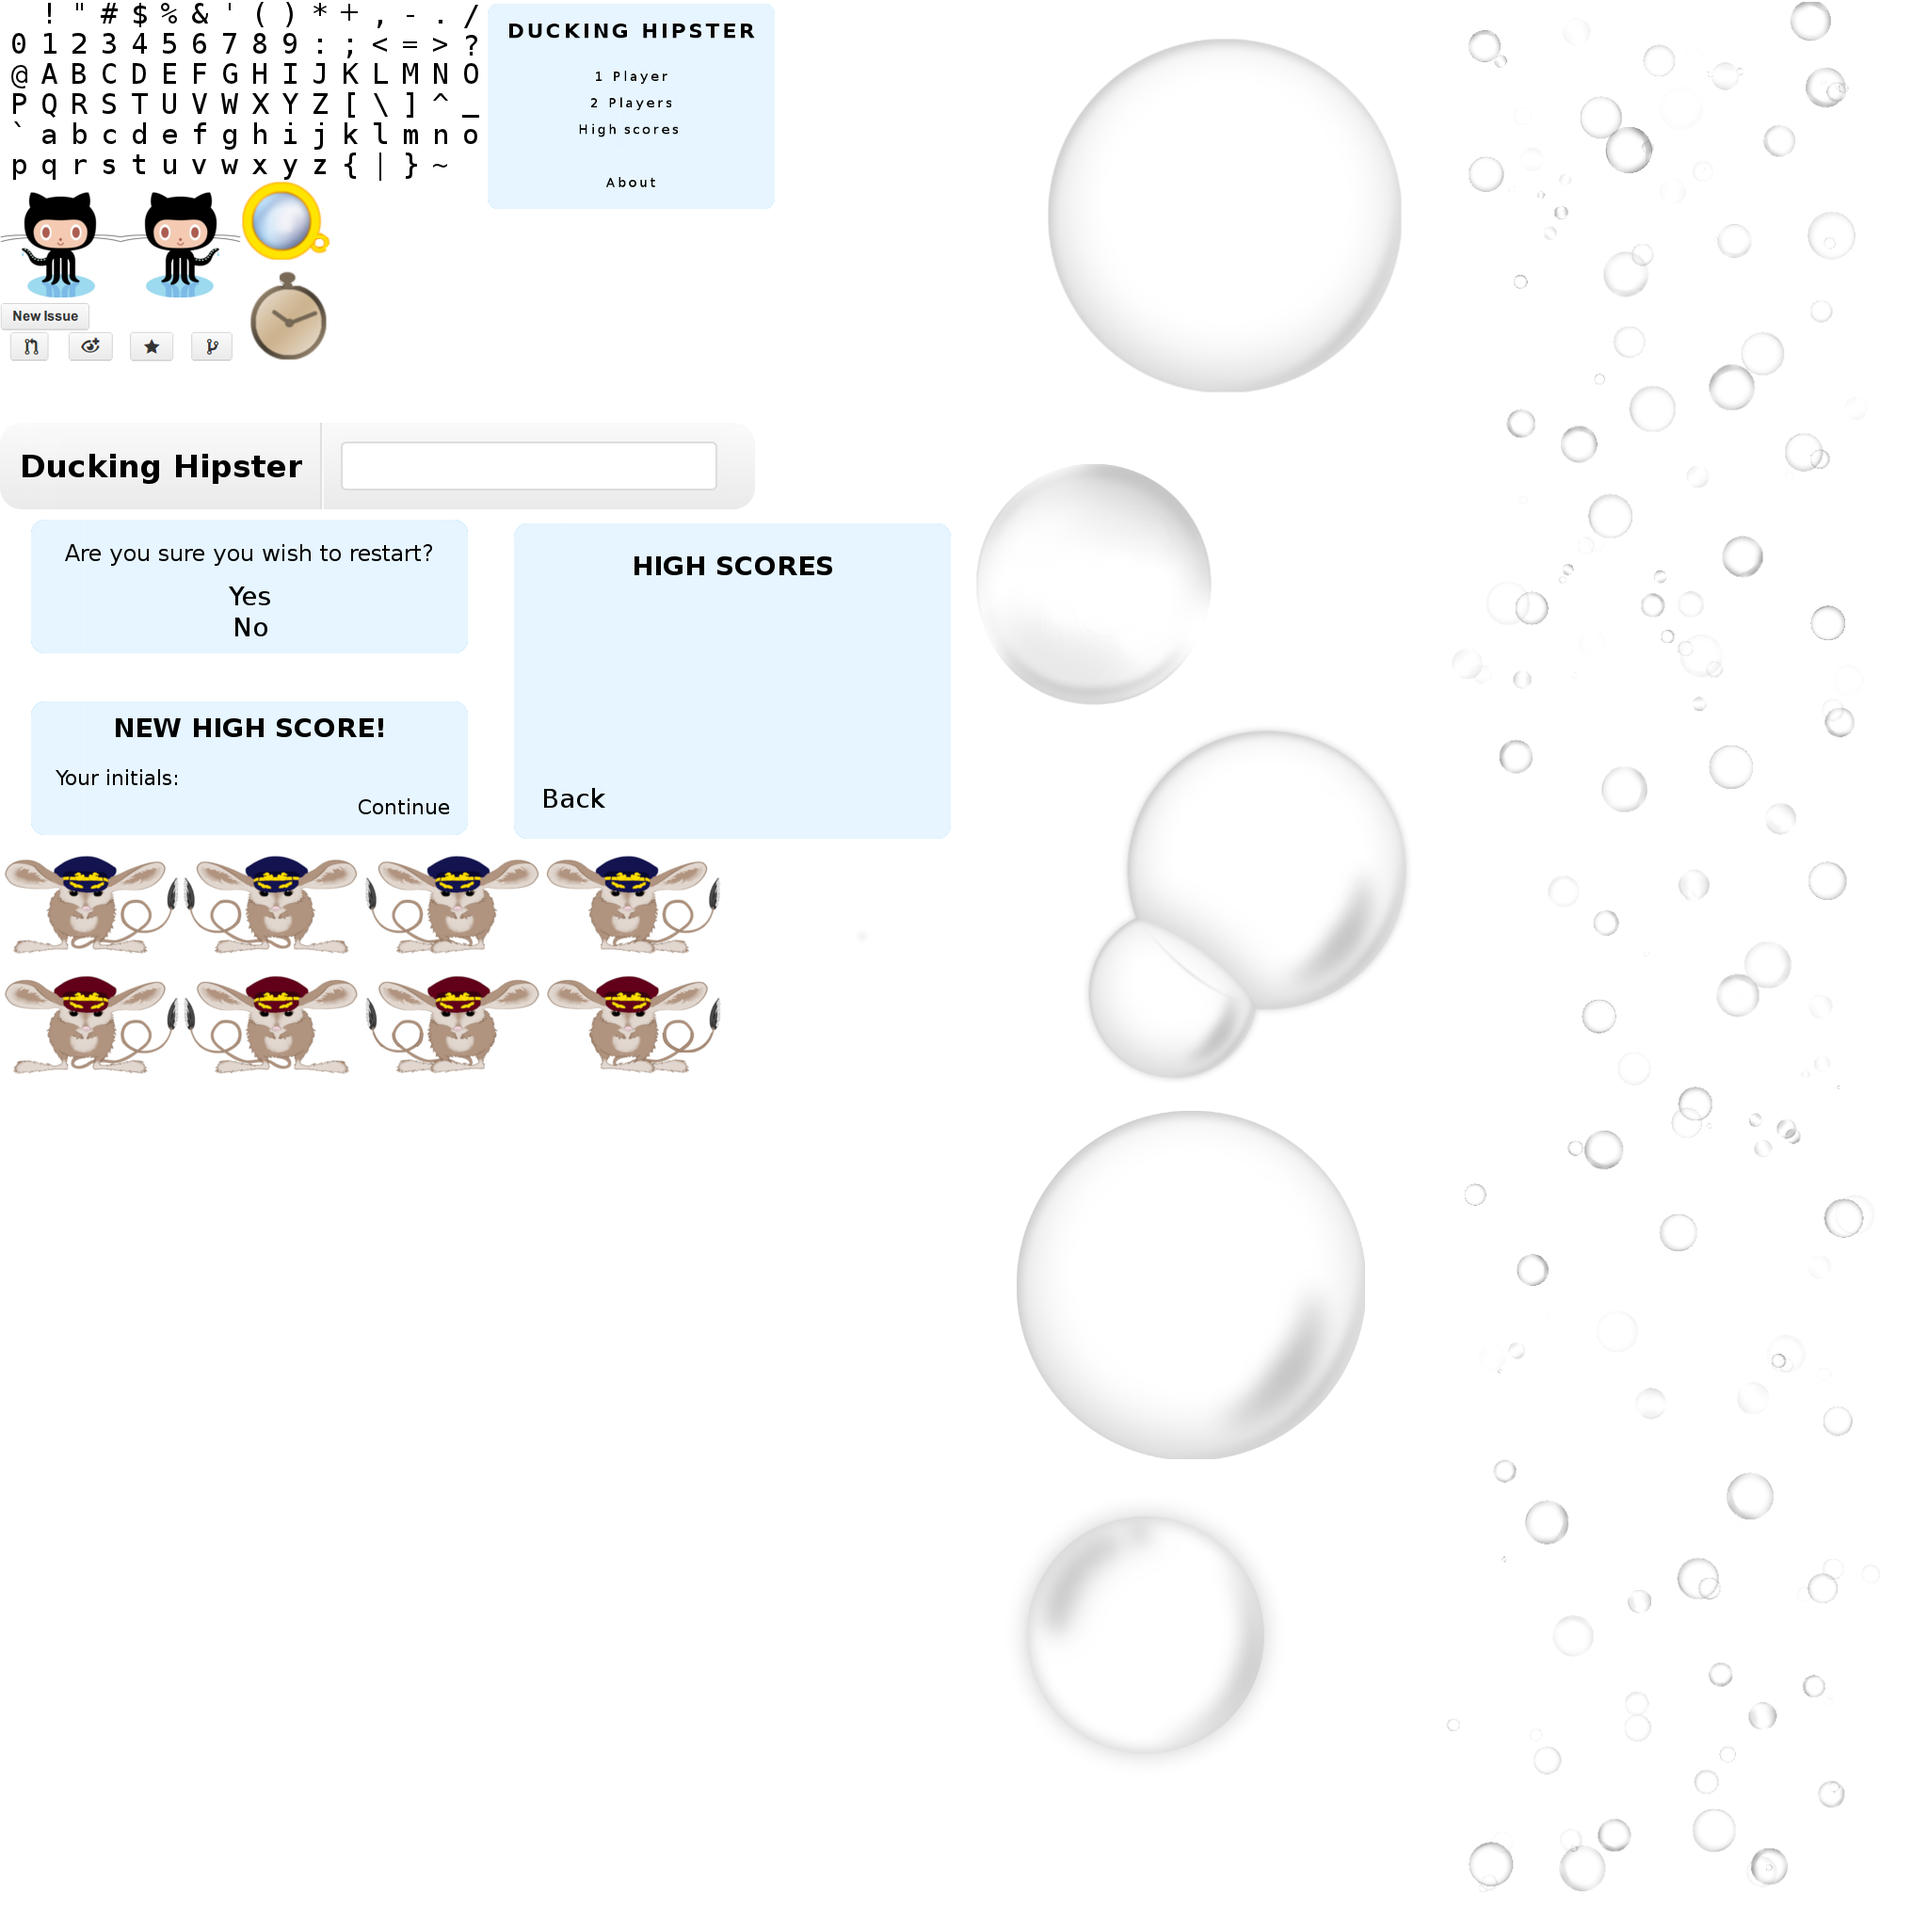
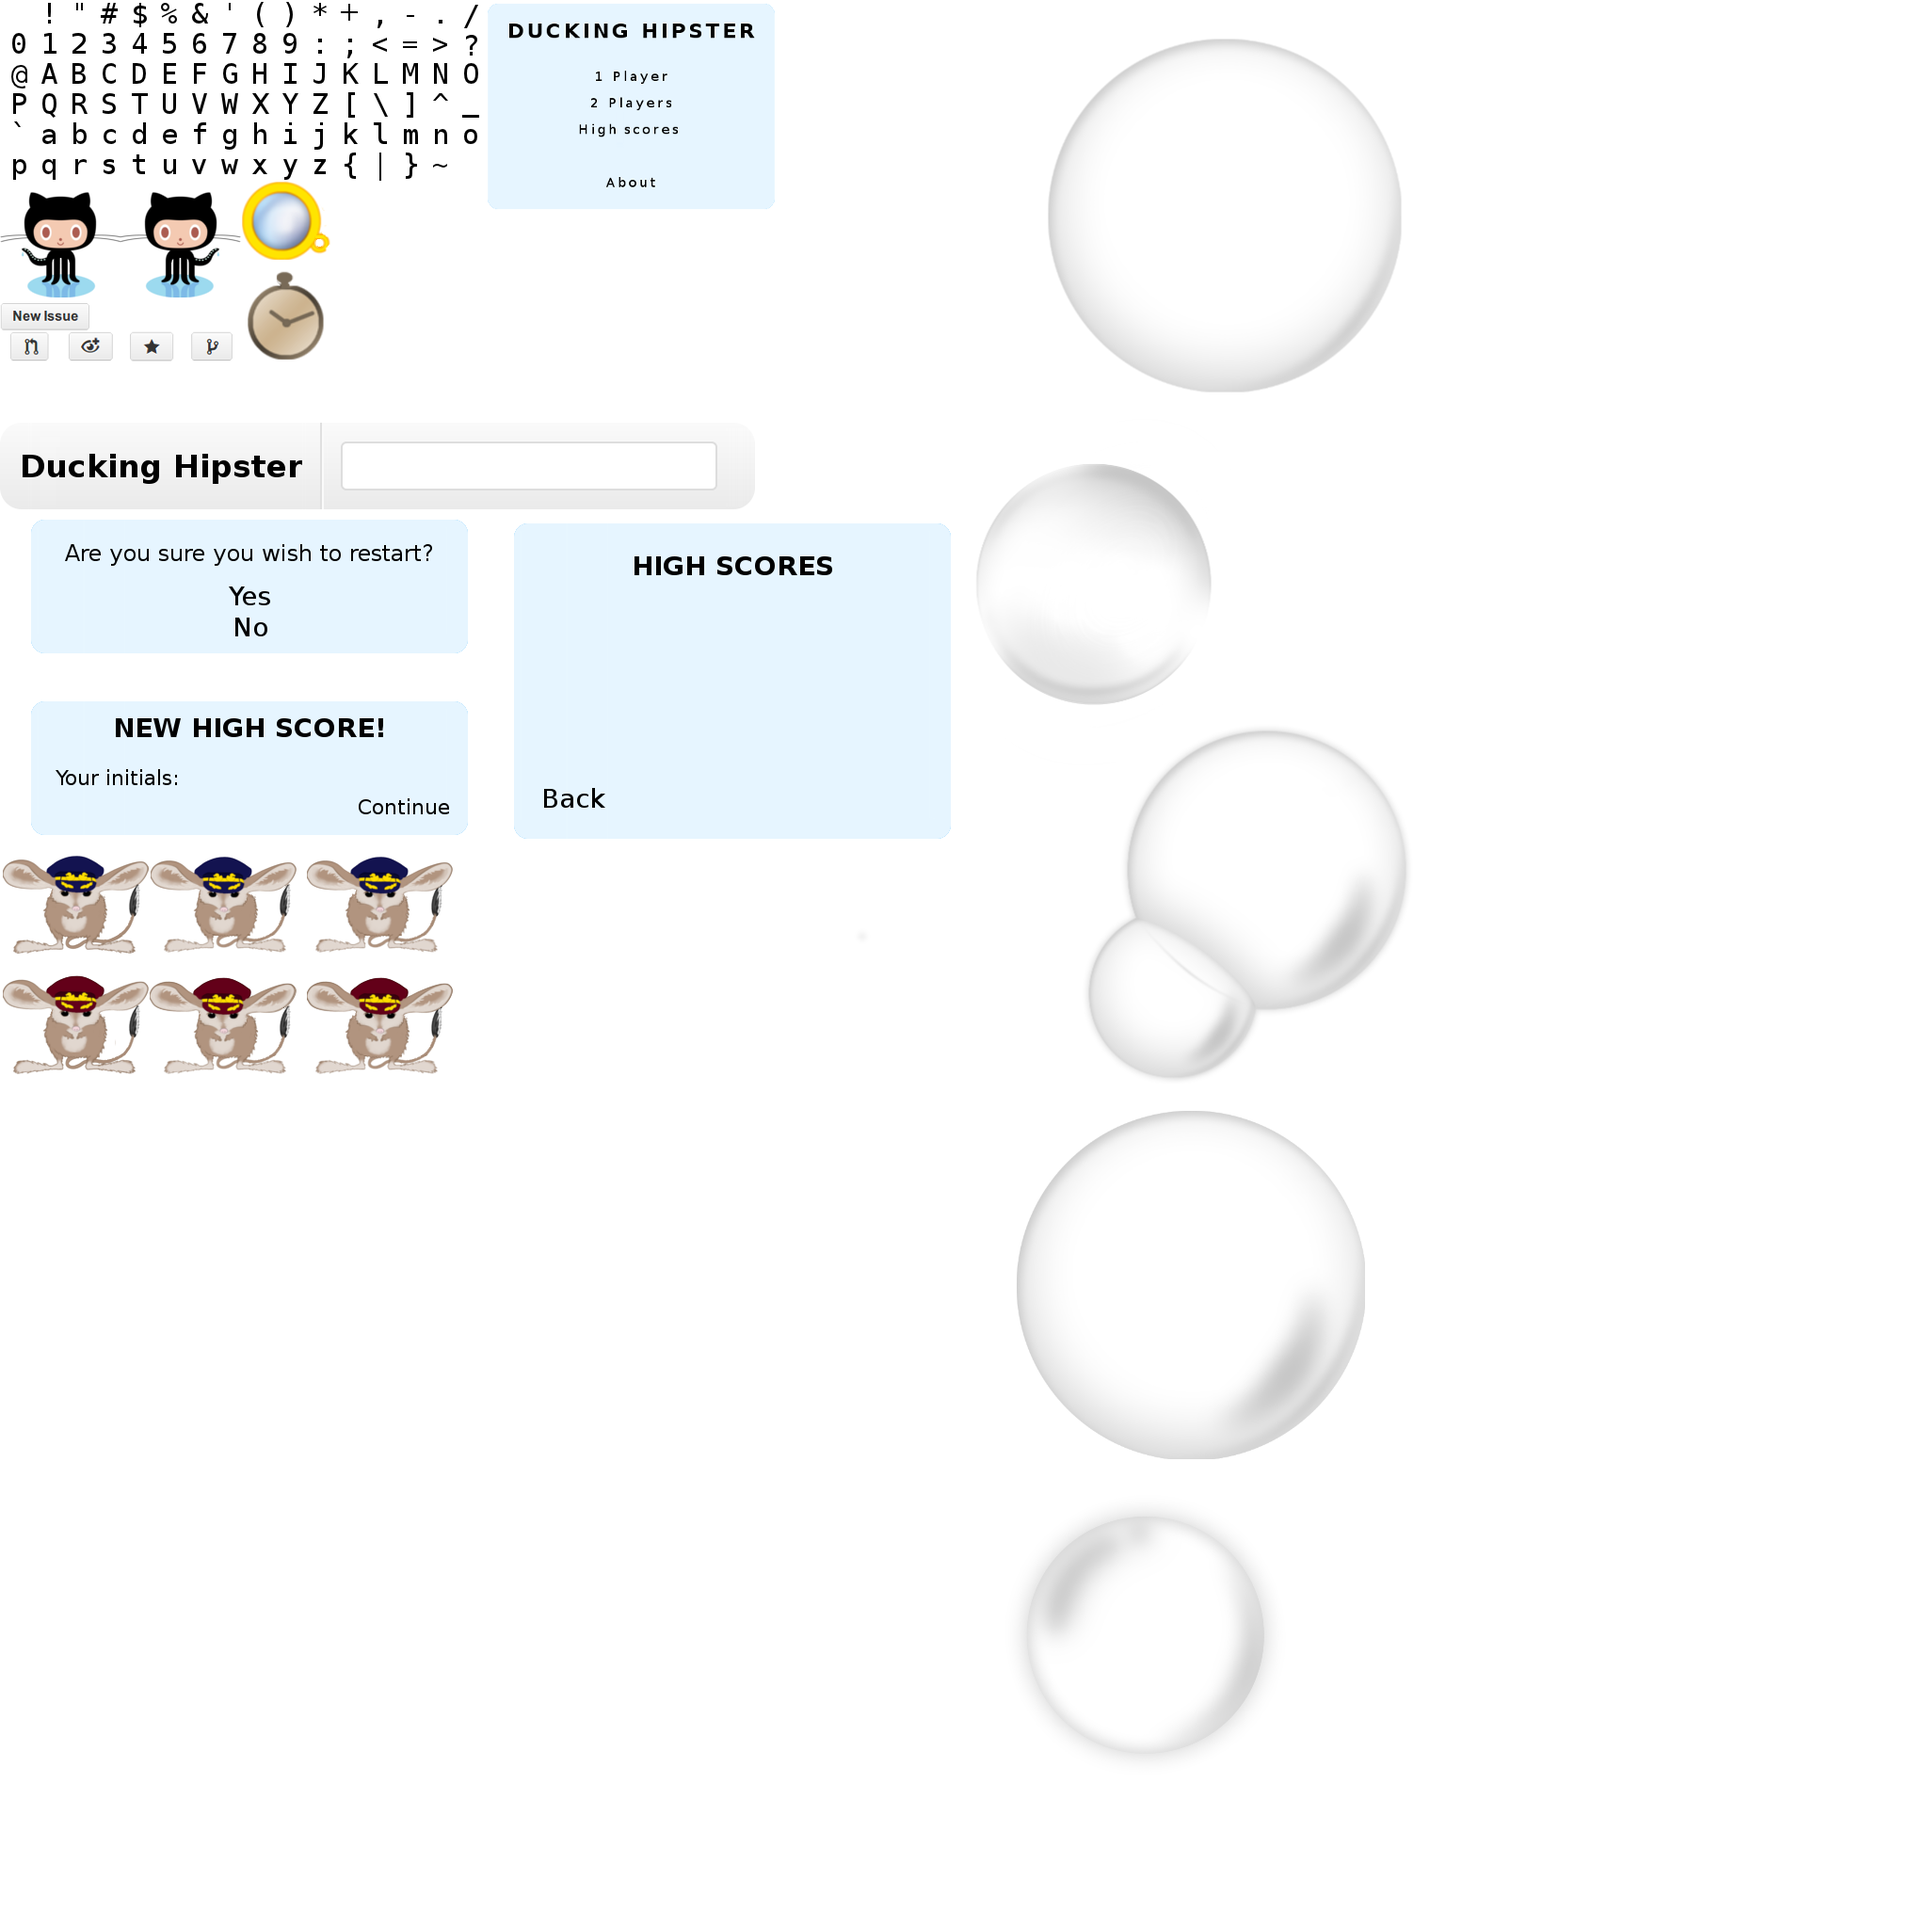
Better animations

diff --git a/js/drawables.js b/js/drawables.js
@@ -394,10 +394,10 @@ Object = function(objectType){
                            o.makeIdle();
                            game.score += 5;
                            p.small = true;
-                           p.size = [0.35/2, 0.45/(6/4)/2, 1];
+                           p.size = [0.3/2, 0.3/(5/4)/2, 1];
                            p.localTimeout(this.name,function(){
                                p.small = false;
-                               p.size = [0.35, 0.45/(6/4), 1];
+                               p.size = [0.3, 0.3/(5/4), 1];
                            }, 3000);
                        }
                    },{ 
@@ -432,7 +432,7 @@ Object = function(objectType){
     object.collissionModifier = 0.8;
     object.alpha = 1;
     object.texture.enabled = true;
-    var type = ObjectTypes[objectType != 'B' ? 4 : Math.round(Math.random()*3)];//Math.round(Math.random()*3)];
+    var type = ObjectTypes[objectType != 'B' ? 3 : Math.round(Math.random()*3)];//Math.round(Math.random()*3)];
     object.size  = type.size;
     object.texture.sprite = type.textureSprite;
     object.texture.size = type.textureSize;
@@ -486,22 +486,22 @@ Object = function(objectType){
 Player = function(p2){
     var player = new Square();
     player.color = [0,0,0,1];
-    player.size  = [0.35, 0.45/(6/4), 1];
+    player.size  = [0.3, 0.3/(5/4), 1];
     player.position = [0, 0.87, 0];
     player.texture.enabled = true;
     var offset = p2 ? 32 : 28;
-    player.texture.sprite = [6,offset];
-    player.texture.size = [6,4];
+    player.texture.sprite = [0,offset];
+    player.texture.size = [5,4];
     player.alpha = 1;
     
     var forkObject = new Square();
     forkObject.color = [1,1,1,0];
-    forkObject.size  = [0.35, 0.45/(6/4), 1];
+    player.size  = [0.3, 0.3/(5/4), 1];
     forkObject.position = [0, 0.9, 0.00001];
     forkObject.texture.enabled = true;
     forkObject.texture.sprite = [0,offset];
     forkObject.collissionModifier = 0.6,
-    forkObject.texture.size = [6,4];
+    forkObject.texture.size = [5,4];
     
     var isWallColliding = function(o){ // d = 1 left wall; d = -1 right wall
         if(o.disabled) return false;
@@ -521,6 +521,7 @@ Player = function(p2){
         small : false,
         invulnerable : false,
         disabled : false,
+        prevx : 0,
         setPosition : function(pos){
             player.position = pos;
             forkObject.position = player.position.slice();
@@ -543,41 +544,42 @@ Player = function(p2){
             this.position = player.position;
             player.size = _.map(this.size, function(s,i){return s * 0.2 + player.size[i] * 0.8;}, this);
             player.color[3] = this.alpha;
+            forkObject.color[3] = this.alpha;
             forkObject.size = player.size;
-            forkObject.position = player.position.slice();
-			forkObject.position[2] = player.position[2] - 0.00001;
-            forkObject.position[0] += 1.45*player.size[0];
+            forkObject.position[2] = player.position[2] - 0.00001;
+            forkObject.position[1] = player.position[1];
             
+ 
+            if(!this.fork){
+                this.prevx = Math.max(0, this.prevx-theta*10);
+                forkObject.position[0] = this.prevx*1.45*player.size[0]+player.position[0]; //0.8*1.45*player.size[0]
+            }
+            else{
+                this.prevx = Math.min(1, this.prevx+theta*4);
+                forkObject.position[0] = this.prevx*1.45*player.size[0]+player.position[0];
+            }
             if(this.direction[0] != 0){
-                player.texture.sprite = [12,offset];
-                forkObject.texture.sprite = [12,offset];
+                player.texture.sprite = [5,offset];
+                forkObject.texture.sprite = [5,offset];
             }
             else if(this.direction[1] != 0){
-                player.texture.sprite = [18,offset];
-                forkObject.texture.sprite = [18,offset];            
+                player.texture.sprite = [10,offset];
+                forkObject.texture.sprite = [10,offset];            
             }
             else{
-                player.texture.sprite = [6,offset];
+                player.texture.sprite = [0,offset];
                 forkObject.texture.sprite = [0,offset];
-            }
-            
-            
-            if(this.fork){
-                forkObject.color[3] = this.alpha * 0.2 + forkObject.color[3] * 0.8;
-            }
-            else{
-                forkObject.color[3] = forkObject.color[3]*0.8;
             }
 
             if (isWallColliding(player)) {
                 var collidingWall = player.position[0]/Math.abs(player.position[0]); // -1 left, 1 right
                 player.position[0]     = collidingWall*(game.bg.size[0]-forkObject.size[0]);
-                forkObject.position[0] = player.position[0] + 1.45*player.size[0];
+                forkObject.position[0] = this.prevx*1.45*player.size[0]+player.position[0];
                 this.speed[0] = 0;
             }
             if(this.fork && isWallColliding(forkObject)){
                 forkObject.position[0] = game.bg.size[0]-forkObject.size[0];
-                player.position[0] = forkObject.position[0] - 1.45*player.size[0];
+                player.position[0] = forkObject.position[0] - this.prevx*1.45*player.size[0];
                 this.speed[0] = 0;
             }
         },
